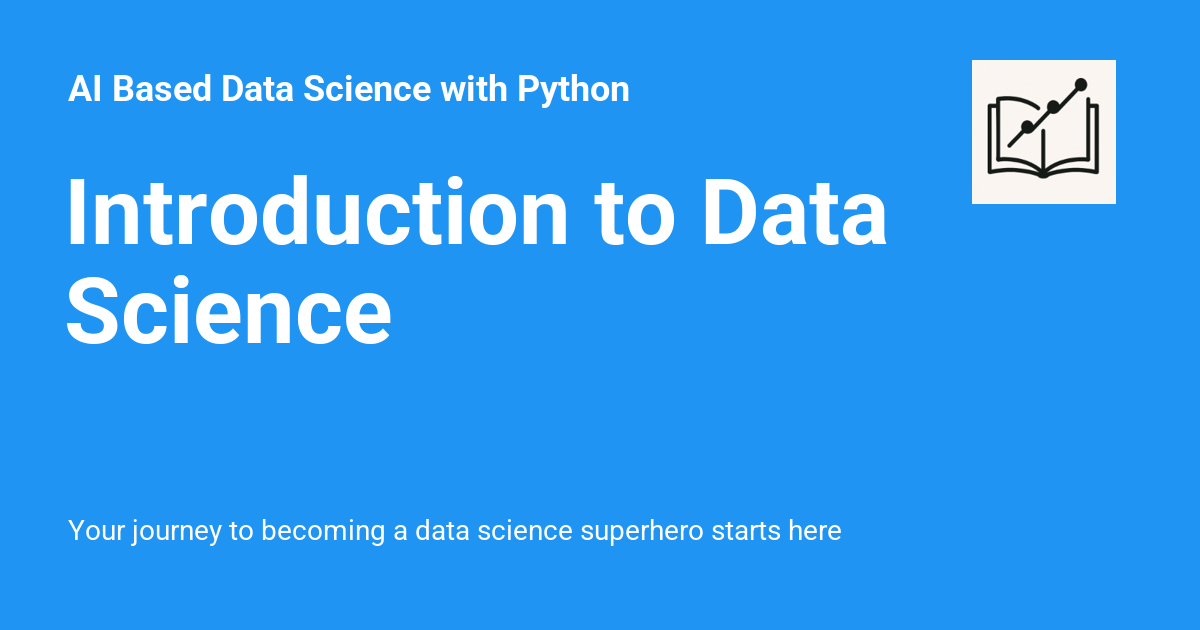
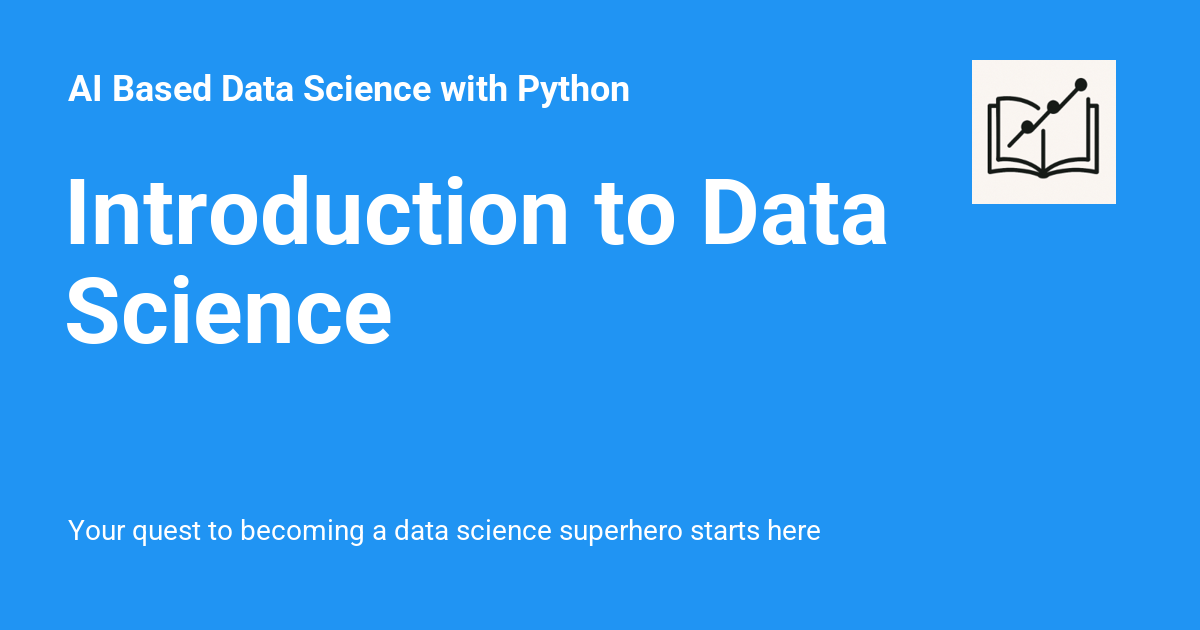
Deployed a73f48f with MkDocs version: 1.6.1

Changed region(s): [[0.0925, 0.8143, 0.7092, 0.8746]]

diff --git a/chapters/01-intro-to-data-science/index.html b/chapters/01-intro-to-data-science/index.html
@@ -6,7 +6,7 @@
       <meta charset="utf-8">
       <meta name="viewport" content="width=device-width,initial-scale=1">
       
-        <meta name="description" content="Your journey to becoming a data science superhero starts here">
+        <meta name="description" content="Your quest to becoming a data science superhero starts here">
       
       
         <meta name="author" content="Dan McCreary">
@@ -75,9 +75,9 @@
       
         <meta  property="og:title"  content="Introduction to Data Science - AI Based Data Science with Python" >
       
-        <meta  property="og:description"  content="Your journey to becoming a data science superhero starts here" >
+        <meta  property="og:description"  content="Your quest to becoming a data science superhero starts here" >
       
-        <meta  property="og:image"  content="https://dmccreary.github.io/data-science-course/assets/images/social/chapters/01-intro-to-data-science/index.png" >
+        <meta property="og:image" content="https://dmccreary.github.io/data-science-course/img/data-science-quest.jpg">
       
         <meta  property="og:image:type"  content="image/png" >
       
@@ -91,9 +91,9 @@
       
         <meta  name="twitter:title"  content="Introduction to Data Science - AI Based Data Science with Python" >
       
-        <meta  name="twitter:description"  content="Your journey to becoming a data science superhero starts here" >
+        <meta  name="twitter:description"  content="Your quest to becoming a data science superhero starts here" >
       
-        <meta  name="twitter:image"  content="https://dmccreary.github.io/data-science-course/assets/images/social/chapters/01-intro-to-data-science/index.png" >
+        <meta name="twitter:image" content="https://dmccreary.github.io/data-science-course/img/data-science-quest.jpg">
       
     
     
